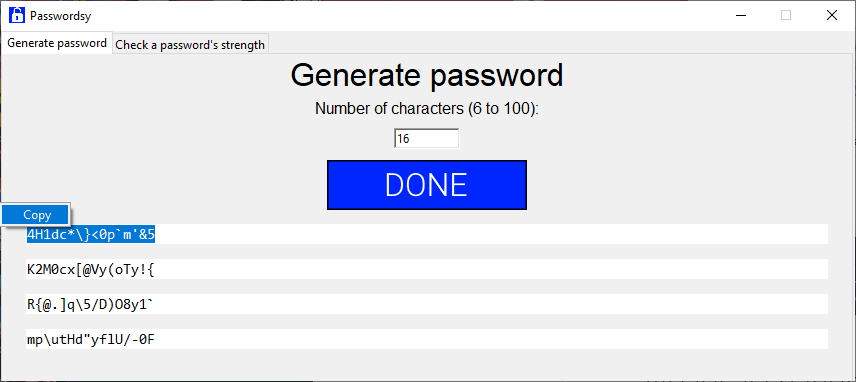
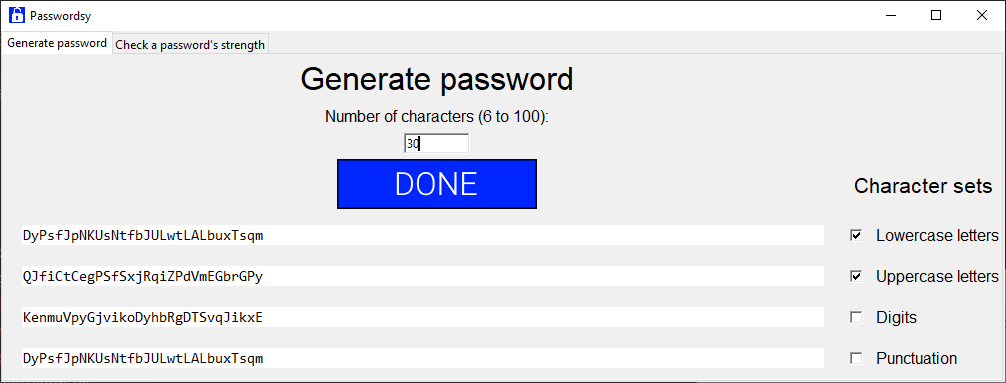
Cleaned code, updated README.md, new screenshots

diff --git a/code/generate_password.py b/code/generate_password.py
@@ -4,7 +4,7 @@ import tkinter as tk
 from pynput.keyboard import Key, Controller
 
 title_font = 'Helvetica 24'
-section_font = 'Helvetica 16'
+section_title_font = 'Helvetica 16'
 description_font = 'Helvetica 12'
 
 keyboard = Controller()
@@ -21,8 +21,8 @@ double_error = 'An error occurred. Try again with at least 1 character set and a
 def show_copy_button(event) -> None:
     '''
     Called when the user releases a mouse button on a password label,
-    this function displays a 'copy' button slightly above the mouse cursor,
-    and places it on top of all other widgets.
+    this function displays a 'copy' menu on the x and y coordinates of the user's cursor,
+    with the y coordinates adjusted by 30 pixels.
 
     Parameters
     ----------
@@ -62,10 +62,10 @@ def show_generate_password_frame(frame, done_btn_image) -> None:
     frame_title_text = 'Generate password'
 
     frame_title = tk.Label(frame, text = frame_title_text, font = title_font)
-    frame_title.grid(column = 0, row = 1, columnspan = 2)
+    frame_title.grid(column = 0, row = 1, columnspan = 2, sticky = 'n')
 
     question = tk.Label(frame, text = 'Number of characters (6 to 100):', font = description_font)
-    question.grid(column = 0, row = 2, columnspan = 2)
+    question.grid(column = 0, row = 2, columnspan = 2, sticky = 'n')
 
     password_label_1 = tk.Text(frame, width = password_width, height = password_height,
                                borderwidth = password_border_width, font = password_font)
@@ -76,60 +76,49 @@ def show_generate_password_frame(frame, done_btn_image) -> None:
     password_label_4 = tk.Text(frame, width = password_width, height = password_height,
                                borderwidth = password_border_width, font = password_font)
 
-    character_sets_label = tk.Label(frame, text = 'Character sets', font = section_font)
+    character_sets_label = tk.Label(frame, text = 'Character sets', font = section_title_font)
     character_sets_label.grid(column = 1, row = 4, columnspan = 2)
 
     lowercase_letters_var = tk.IntVar()
     lowercase_letters_checkbox = tk.Checkbutton(frame, variable = lowercase_letters_var, offvalue = 0, onvalue = 1)
-    lowercase_letters_checkbox.grid(column = 1, row = 5)
     lowercase_letters_text = tk.Label(frame, text = 'Lowercase letters', font = description_font)
-    lowercase_letters_text.grid(column = 2, row = 5, sticky = 'w')
 
     uppercase_letters_var = tk.IntVar()
     uppercase_letters_checkbox = tk.Checkbutton(frame, variable = uppercase_letters_var, offvalue = 0, onvalue = 1)
-    uppercase_letters_checkbox.grid(column = 1, row = 6)
     uppercase_letters_text = tk.Label(frame, text = 'Uppercase letters', font = description_font)
-    uppercase_letters_text.grid(column = 2, row = 6, sticky = 'w')
 
     digits_var = tk.IntVar()
     digits_checkbox = tk.Checkbutton(frame, variable = digits_var, offvalue = 0, onvalue = 1)
-    digits_checkbox.grid(column = 1, row = 7)
     digits_text = tk.Label(frame, text = 'Digits', font = description_font)
-    digits_text.grid(column = 2, row = 7, sticky = 'w')
 
     punctuation_var = tk.IntVar()
     punctuation_checkbox = tk.Checkbutton(frame, variable = punctuation_var, offvalue = 0, onvalue = 1)
-    punctuation_checkbox.grid(column = 1, row = 8)
     punctuation_text = tk.Label(frame, text = 'Punctuation', font = description_font)
-    punctuation_text.grid(column = 2, row = 8, sticky = 'w')
 
     password_labels = [password_label_1, password_label_2, password_label_3, password_label_4]
-
     checkboxes = [lowercase_letters_checkbox, uppercase_letters_checkbox, digits_checkbox, punctuation_checkbox]
-
-    for password_label in password_labels:
-        password_label.grid(column = 0, row = 5 + password_labels.index(password_label), pady = 10, padx = 10)
-        password_label.config(state = 'disabled')
+    checkboxes_text = [lowercase_letters_text, uppercase_letters_text, digits_text, punctuation_text]
 
     for checkbox in checkboxes:
+        checkbox.grid(column = 1, row = 5 + checkboxes.index(checkbox), sticky = 'w', pady = 8)
         checkbox.select()
+    
+    for text in checkboxes_text:
+        text.grid(column = 2, row = 5 + checkboxes_text.index(text), sticky = 'w')
 
     def create_password_labels(event) -> None:
         '''
         Called upon clicking the done button or pressing the ENTER key,
-        this function places the password_labels in a list,
-        binds them to the show_copy_button function when releasing a mouse mutton,
-        calls the generate_password function to get the passwords and calls the show_password function to display them,
-        or clears the input_box and calls the show_password function to show an error if the input is invalid.
+        this function binds each password_label to the show_copy_button function when releasing a mouse button,
+        calls the generate_password function to get the 4 passwords
+        (or an error),
+        and displays them:
+        the 4 passwords on each password_label,
+        or the error on the first password_label
         Parameters
         ----------
         event:
             Necessary for initiating the function when pressing the ENTER key.
-
-        Raises
-        ------
-        ValueError
-            If an invalid value is placed in the input box.
         '''
 
         for password_label in password_labels:
@@ -137,16 +126,18 @@ def show_generate_password_frame(frame, done_btn_image) -> None:
             password = generate_password(input_box.get())
             if password != invalid_input_error and password != no_character_set_error and password != double_error:
                 show_password(password_label, password, password_labels.index(password_label))
+                password_label.grid(column = 0, row = 5 + password_labels.index(password_label), pady = 10, padx = 10)
         
+        password_label_1.grid(column = 0, row = 5, padx = 10, pady = 10)
         show_password(password_label_1, password, 0)
 
     global input_box
     input_box = tk.Entry(frame, width = 10, borderwidth = 2)
     input_box.bind('<Return>', create_password_labels)
-    input_box.grid(column = 0, row = 3, columnspan = 2)
+    input_box.grid(column = 0, row = 3, columnspan = 2, sticky = 'n')
 
     done_btn = tk.Button(frame, image = done_btn_image, borderwidth = 0, command = lambda: create_password_labels(None))
-    done_btn.grid(column = 0, row = 4, columnspan = 2)
+    done_btn.grid(column = 0, row = 4, columnspan = 2, sticky = 'n')
 
     def show_password(label, text, index) -> None:
         '''
@@ -160,7 +151,7 @@ def show_generate_password_frame(frame, done_btn_image) -> None:
             Each individual password label one by one if passwords are generated,
             or the first password label if an error is generated.
         text: str
-            The password or the error.
+            Each password or the error.
         index:
             The index of the password label being shown is necessary for placing it correctly on the screen.
         '''
@@ -174,24 +165,22 @@ def show_generate_password_frame(frame, done_btn_image) -> None:
         '''
         Called by the create_password_labels function
         (upon clicking the done button or pressing the ENTER key),
-        this function checks if the requested_length is valid,
-        creates a global variable with a secure password if it is,
-        raises a value error if it's not.
+        this function checks if no character set has been chosen and if the input is valid,
+        and returns a password or an error.
 
         Parameters
         ----------
         requested_length: int
             The length requested by the user.
-        
-        Raises
-        ------
-        ValueError
-            If the requested length is not an integer between 6 and 100.
         '''
+        # Checks if no character set has been chosen.
         if lowercase_letters_var.get() == 0 and uppercase_letters_var.get() == 0 and digits_var.get() == 0 and punctuation_var.get() == 0:
             try:
+                # Checks if the requested_length is a valid integer between 6 and 100.
                 if 6 <= int(requested_length) <= 100:
                     return no_character_set_error
+
+                # A double error is returned if no character set has been chosen AND if the input is not valid.
                 else:
                     input_box.delete(0, 'end')
                     return double_error
@@ -210,47 +199,59 @@ def show_generate_password_frame(frame, done_btn_image) -> None:
                     characters += string.digits
                 if punctuation_var.get() == 1:
                     characters += string.punctuation
+
                 generated_password = ''.join(secrets.choice(characters) for _ in range(max(min(int(requested_length), 100), max(int(requested_length), 6))))
                 generate_password_characters = []
                 generate_password_characters[:0] = generated_password
+
                 number_of_lowercase_letters = 0
                 number_of_uppercase_letters = 0
                 number_of_digits = 0
                 number_of_punctuation = 0
+
+                # Checks if the generated_password contains at least 1 character from each permitted character set.
                 if lowercase_letters_var.get() == 1:
                     lowercase_letters = []
                     lowercase_letters[:0] = string.ascii_lowercase
+
                     for character in generate_password_characters:
                         if character in lowercase_letters:
                             number_of_lowercase_letters += 1
                     if number_of_lowercase_letters == 0:
                         generate_password(requested_length)
+
                 if uppercase_letters_var.get() == 1:
                     uppercase_letters = []
                     uppercase_letters[:0] = string.ascii_uppercase
+
                     for character in generate_password_characters:
                         if character in uppercase_letters:
                             number_of_uppercase_letters += 1
                     if number_of_uppercase_letters == 0:
                         generate_password(requested_length)
+
                 if digits_var.get() == 1:
                     digits = []
                     digits[:0] = string.digits
+
                     for character in generate_password_characters:
                         if character in digits:
                             number_of_digits += 1
                     if number_of_digits == 0:
                         generate_password(requested_length)
+
                 if punctuation_var.get() == 1:
                     punctuation = []
                     punctuation[:0] = string.punctuation
+
                     for character in generate_password_characters:
                         if character in punctuation:
                             number_of_punctuation += 1
                     if number_of_punctuation == 0:
                         generate_password(requested_length)
 
-                return generated_password 
+                return generated_password
+            # An invalid_input_error is returned if the requested_length is can't be converted to an integer between 6 and 100.
             else:
                 input_box.delete(0, 'end')
                 return invalid_input_error

diff --git a/code/main.py b/code/main.py
@@ -11,7 +11,7 @@ def main() -> None:
     '''
     window = tk.Tk()
 
-    notebook = ttk.Notebook(window, width = 1000, height = 300)
+    notebook = ttk.Notebook(window, width = 1000, height = 325)
     notebook.grid(column = 0, row = 0)
     window.grid_columnconfigure(0, weight = 1)
     window.grid_rowconfigure(0, weight = 1)
@@ -39,6 +39,10 @@ def main() -> None:
         generate_password_frame.grid(column = 0, row = 0)
         generate_password_frame.grid_columnconfigure(0, weight = 1)
         generate_password_frame.grid_rowconfigure(0, weight = 1)
+        generate_password_frame.grid_rowconfigure(1, weight = 1)
+        generate_password_frame.grid_rowconfigure(2, weight = 1)
+        generate_password_frame.grid_rowconfigure(3, weight = 1)
+        generate_password_frame.grid_rowconfigure(4, weight = 1)
 
         notebook.add(generate_password_frame, text = 'Generate password')
 

diff --git a/code/password_strength.py b/code/password_strength.py
@@ -5,7 +5,7 @@ from pynput.keyboard import Key, Controller
 keyboard = Controller()
 
 title_font = 'Helvetica 24'
-warning_font = 'Helvetica 12'
+warning_font = 'Helvetica 16'
 
 common_passwords_file = open('passwords.txt', 'r') # passwords.txt is from the https://github.com/danielmiessler/SecLists repository.
 common_passwords_read = common_passwords_file.readlines()

diff --git a/README.md b/README.md
@@ -1,23 +1,25 @@
 # Passwordsy
-A program that can generate a secure password of up to 100 characters and check for vulnerabilities in a given password. 
+A program that can generate a secure password of up to 100 characters (uppercase and lowercase letters, digits, and/or punctuation), and check for vulnerabilities (prevalence, length, complexity, repeated characters) in a given password. 
 
 ## Getting Started
 ### Prerequisites
 You will need to install Python (from the Microsoft Store, for example) to run this program.
 
 ### Installation
-Clone the repository using GitHub Desktop.  
-Click File > Clone repository, put https://github.com/IceTheDev2/Passwordsy/ into the URL field, and select which directory you want to clone the repository in.  
+Clone the repository using GitHub Desktop.
+Click File > Clone repository, put https://github.com/IceTheDev2/Passwordsy/ into the URL field, and select which directory you want to clone the repository in.
 Run main.py from a terminal.
+For the Windows Command Prompt, use cd to change directories and navigate to the folder you cloned the repository in.
+Navigate to the code directory and type 'python main.py'
 
 ## Usage
-You can use this program to generate a random secure string of 6 to 100 letters, numbers and punctuation marks.
+You can use this program to generate a random secure string of 6 to 100 uppercase and lowercase letters, numbers and/or punctuation marks.
 ![alt_text](https://github.com/IceTheDev2/Passwordsy/blob/main/code/screenshots/1.PNG)
 ![alt_text](https://github.com/IceTheDev2/Passwordsy/blob/main/code/screenshots/2.PNG)
 ![alt_text](https://github.com/IceTheDev2/Passwordsy/blob/main/code/screenshots/3.PNG)
 
 
-You can also use it to discover weaknesses of a password, such as being a commonly used password, having a short length, not containing upper and lower case letters, digits, and punctuation, or containing a repeated character.
+You can also use it to discover weaknesses of a password, such as prevalence, length, simplicity, repeating characters.
 ![alt_text](https://github.com/IceTheDev2/Passwordsy/blob/main/code/screenshots/4.PNG)
 ![alt_text](https://github.com/IceTheDev2/Passwordsy/blob/main/code/screenshots/5.PNG)
 ![alt_text](https://github.com/IceTheDev2/Passwordsy/blob/main/code/screenshots/6.PNG)
@@ -31,6 +33,7 @@ You can fork the project to play around with it and create a pull request to sub
 This project is licensed under the MIT License. Read LICENSE.txt for more information.
 
 ## Contact
+Blog: https://icethedev2.github.io/
 Project Link: https://github.com/IceTheDev2/Passwordsy/  
 Reddit: https://www.reddit.com/user/AnEntirePeach
 Youtube: https://www.youtube.com/channel/UCBqVJU4gjeik1RavAsVR6Pg
@@ -42,13 +45,13 @@ E-mail: icethedev2@gmail.com
 * The GitHub contributors to this project, [dwaffle](https://github.com/dwaffle), [christopher-chandler](https://trello.com/c/f72vJsYk/50-https-githubcom-christopher-chandler), and [MartinMerkli](https://github.com/MartinMerkli)
 * The [SecLists repository](https://github.com/danielmiessler/SecLists) of danielmiessler, used here for the 100,000 most common passwords
 * [Exercism](https://exercism.org/) for its large array of exercises
-* Paul Miskew for his [PYTHON 3 TKINTER - GUI ENTRY BIND KEY](https://youtu.be/JThKYGapGzU) video
 * These Stack Overflow questions: https://stackoverflow.com/questions/2260235/how-to-clear-the-entry-widget-after-a-button-is-pressed-in-tkinter, https://stackoverflow.com/questions/68327/change-command-method-for-tkinter-button-in-python, https://stackoverflow.com/questions/61139160/tkinter-error-tkinter-tclerror-invalid-command-name-frame-entry-python, https://stackoverflow.com/questions/45847313/what-does-weight-do-in-tkinter, https://stackoverflow.com/questions/66035176/entry-widget-in-tkinter-with-key-bind, https://stackoverflow.com/questions/66035176/entry-widget-in-tkinter-with-key-bind, https://stackoverflow.com/questions/69425865/tkinter-event-x-y-mouse-position-wrong-value-only-when-mouse-movement-up, https://stackoverflow.com/questions/68615095/how-do-i-find-the-position-of-a-widget-relative-to-the-window-in-tkinter, https://stackoverflow.com/questions/45393923/python-tkinter-key-binding-to-all-subsequent-widgets, https://stackoverflow.com/questions/45393923/python-tkinter-key-binding-to-all-subsequent-widgets, https://stackoverflow.com/questions/27802270/how-to-stop-a-function, https://stackoverflow.com/questions/3842155/is-there-a-way-to-make-the-tkinter-text-widget-read-only.
+* [This tutorialspoint.com page](https://www.tutorialspoint.com/how-to-delete-tkinter-widgets-from-a-window#:~:text=We%20can%20delete%20widgets%20from,defining%20a%20function%20for%20it.), as well as [this one](https://www.tutorialspoint.com/how-to-get-the-input-from-a-checkbox-in-python-tkinter#:~:text=Let%20us%20suppose%20that%20we,value%20of%20a%20particular%20widget.)
+* Paul Miskew for his [PYTHON 3 TKINTER - GUI ENTRY BIND KEY](https://youtu.be/JThKYGapGzU) video
 * [This simplilearn.com page](https://www.simplilearn.com/tutorials/python-tutorial/python-typeof-function)
 * [This realpython.com page](https://realpython.com/documenting-python-code/#documenting-your-python-code-base-using-docstrings)
 * [This](https://www.youtube.com/watch?v=DCaKj3eIrro) video tutorial of LeMaster Tech on reading from a .txt file in Python
 * [This flexiple.com page](https://flexiple.com/python/python-list-contains/)
-* [This tutorialspoint.com page](https://www.tutorialspoint.com/how-to-delete-tkinter-widgets-from-a-window#:~:text=We%20can%20delete%20widgets%20from,defining%20a%20function%20for%20it.)
 * [This Runestone Academy page](https://runestone.academy/ns/books/published/fopp/SimplePythonData/UpdatingVariables.html#:~:text=In%20Python%20%2B%3D%20is%20used,or%20x%20%3D%20x%20%2B%201%20.)
 * [This geeksforgeeks.org page](https://www.geeksforgeeks.org/append-extend-python/#:~:text=What%20is%20Append%20in%20Python,the%20end%20of%20a%20list.)
 * [This digitalocean.com page](https://www.digitalocean.com/community/tutorials/how-to-use-break-continue-and-pass-statements-when-working-with-loops-in-python-3)
